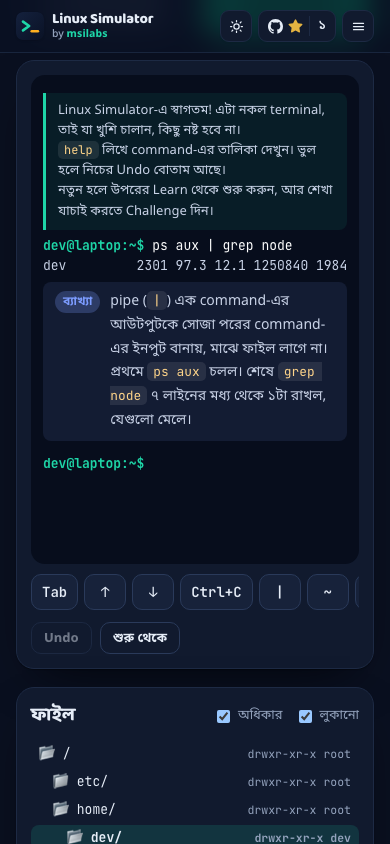
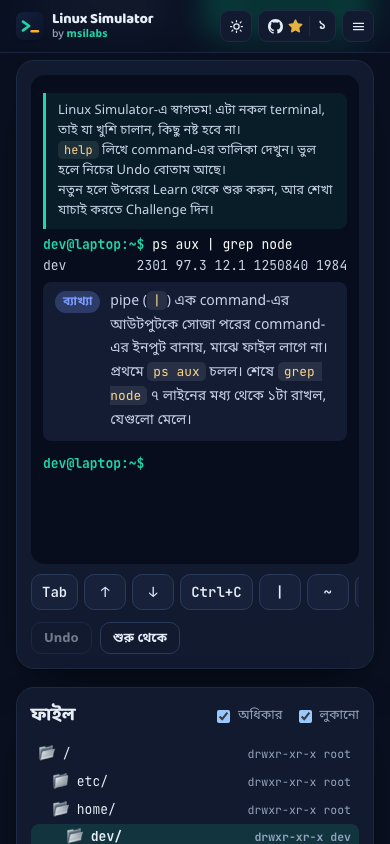
feat: redesign home hero with side-by-side layout and new title

diff --git a/global/style.css b/global/style.css
@@ -77,10 +77,13 @@ code, pre { font-family: var(--f-code); font-variant-ligatures: none; }
 @media (max-width: 640px) { .page-head { justify-items: center; text-align: center; } }
 
 /* Home: hero */
-.hero-home { padding: 16px 0 4px; }
-.hero-copy { display: grid; gap: 16px; justify-items: start; }
-.hero-copy h1 { margin: 0; font-family: var(--f-display); font-weight: 800; font-size: clamp(34px, 5vw, 54px); line-height: 1.1; letter-spacing: -0.02em; }
-.hero-copy p { margin: 0; max-width: 62ch; color: var(--muted); font-size: 16.5px; line-height: 1.75; }
+.hero-home { display: flex; flex-direction: column; align-items: flex-start; gap: 16px 48px; padding: 16px 0 4px; }
+.hero-home h1 { margin: 0; font-family: var(--f-display); font-weight: 800; font-size: 48px; line-height: 1.1; letter-spacing: -0.02em; }
+.hero-home h1 .nb { white-space: nowrap; }
+.hero-side { display: grid; gap: 16px; justify-items: start; }
+@media (min-width: 960px) { .hero-home { flex-direction: row; align-items: center; justify-content: space-between; } .hero-home h1 { flex: none; } .hero-side { flex: 0 1 600px; min-width: 0; }
+  .hero-side { justify-items: end; text-align: right; } .hero-actions { justify-content: flex-end; } }
+.hero-side p { max-width: 600px; margin: 0; text-wrap: balance; color: var(--muted); font-size: 16.5px; line-height: 1.75; }
 .hero-actions { display: flex; flex-wrap: wrap; gap: 12px; margin-top: 4px; }
 .hero-actions .cta { min-width: 190px; justify-content: center; }
 .cta {
@@ -109,7 +112,9 @@ code, pre { font-family: var(--f-code); font-variant-ligatures: none; }
 @keyframes cta-shine { to { transform: translateX(350%) skewX(-20deg); } }
 @media (prefers-reduced-motion: reduce) { .cta::after { animation: none; } }
 @media (max-width: 640px) {
-  .hero-copy { justify-items: center; text-align: center; }
+  .hero-home { align-items: center; }
+  .hero-home, .hero-side { justify-items: center; text-align: center; }
+  .hero-home h1 { font-size: 30px; }
   .hero-actions { width: 100%; flex-wrap: nowrap; gap: 8px; }
   .hero-actions .cta { flex: 1 1 0; min-width: 0; padding: 0 10px; gap: 6px; font-size: 14px; }
   .hero-actions .cta-arrow { display: none; }
